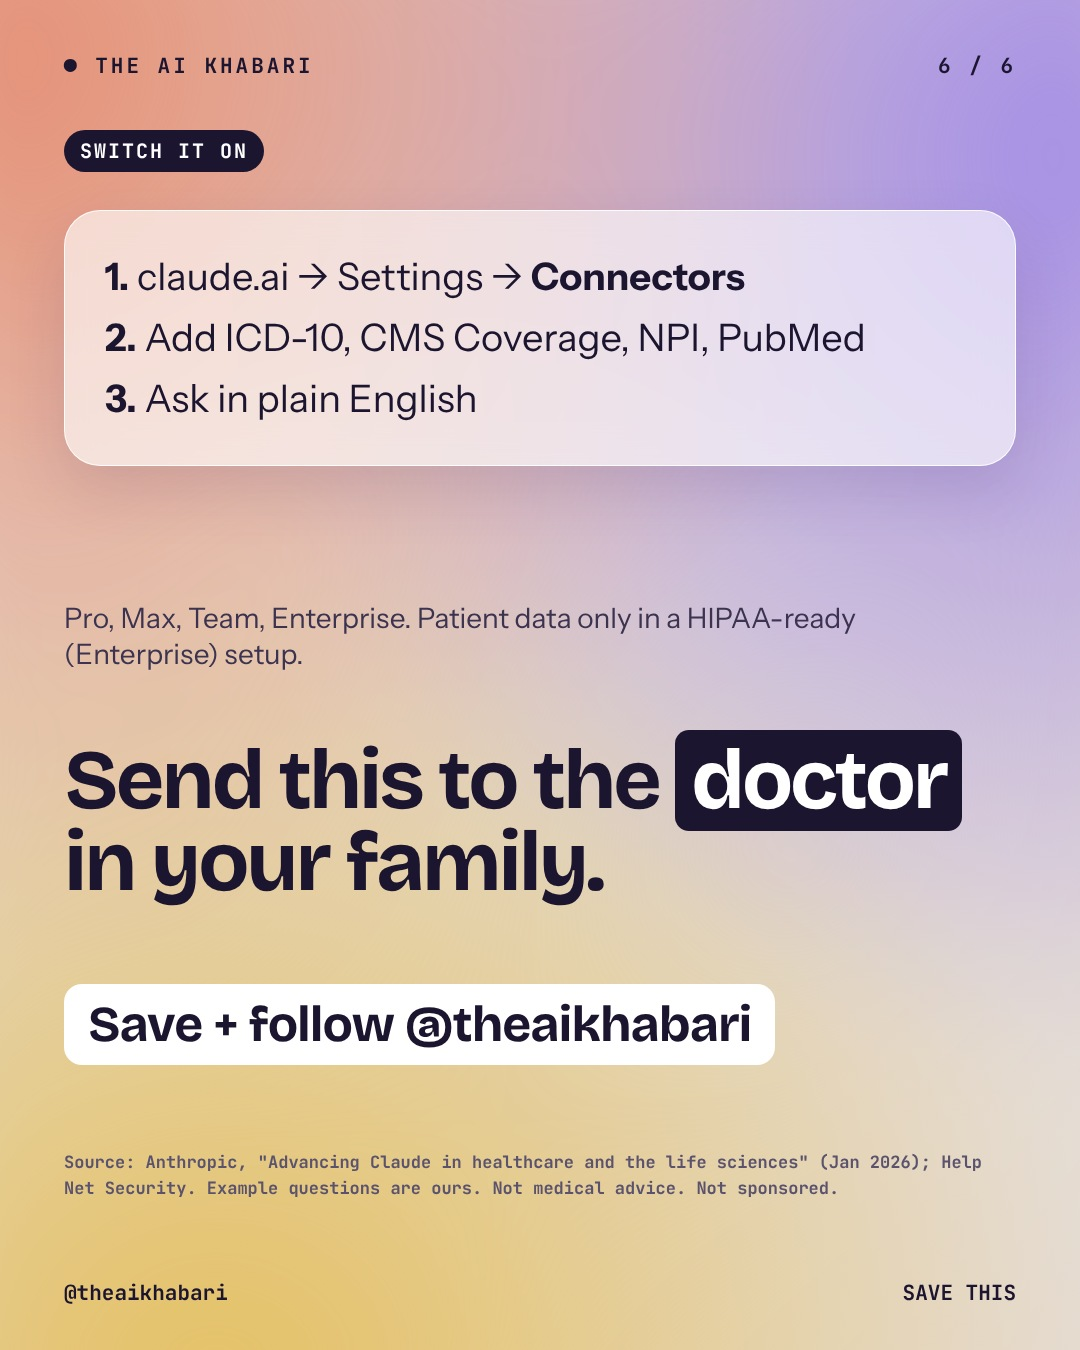
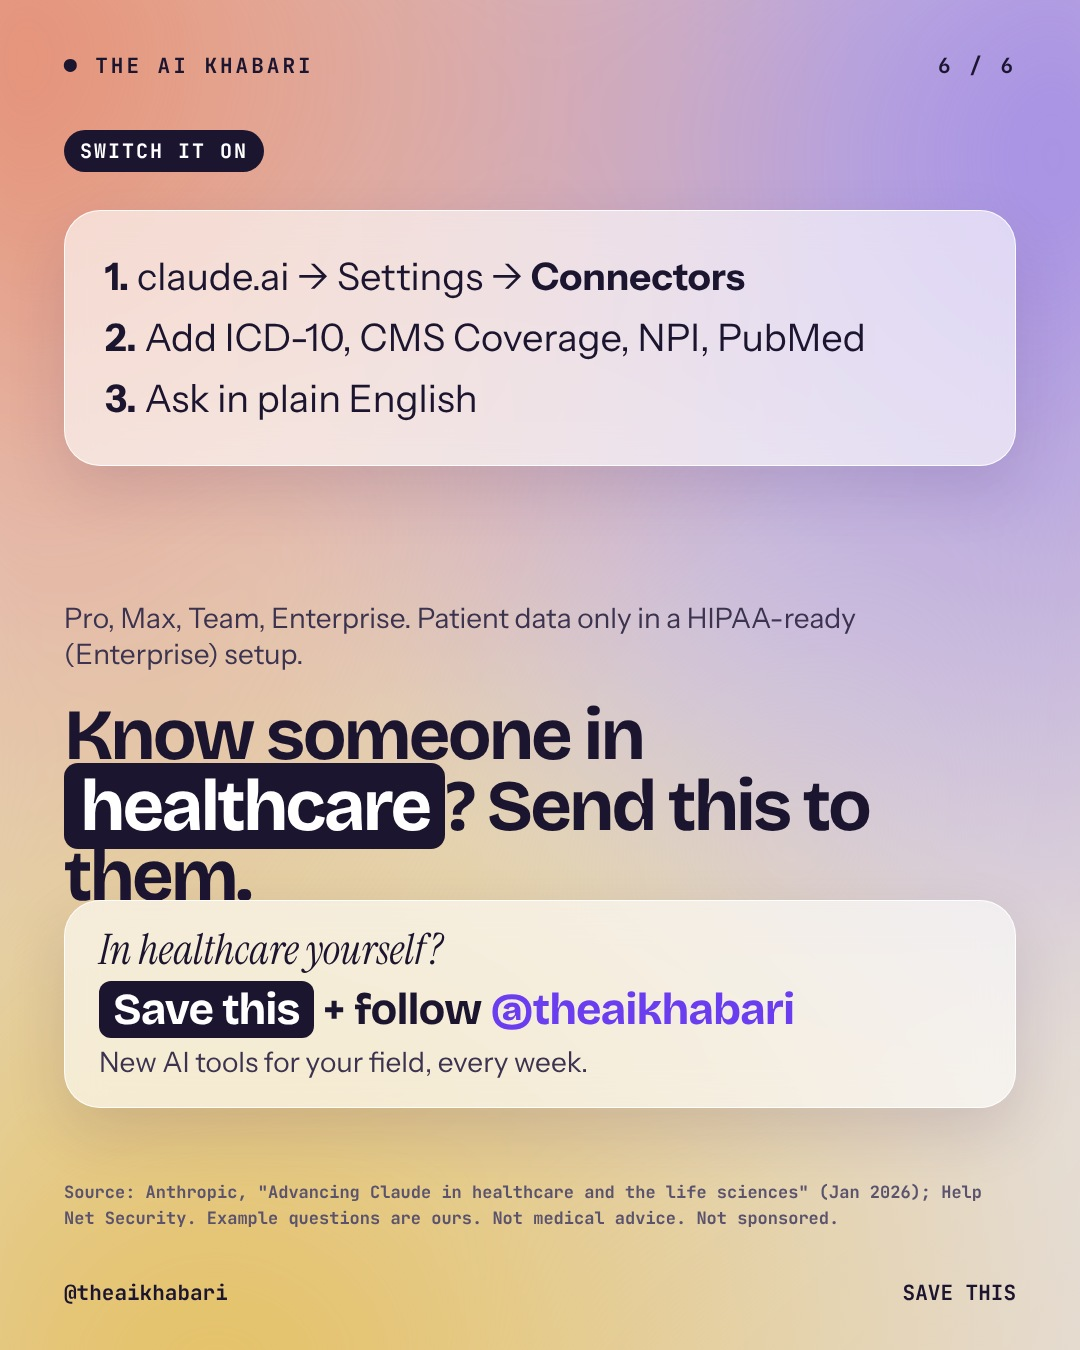
Healthcare carousel: broader CTA slide
Claude-Session: https://claude.ai/code/session_01LQ7Myr8fmpLaNjf994KEDc

Changed region(s): [[0.0611, 0.5289, 0.9472, 0.9333]]

diff --git a/tools/examples/health_carousel_build.py b/tools/examples/health_carousel_build.py
@@ -77,9 +77,12 @@ S.append(f"""<div class=a style="left:64px;top:130px"><span class=chip>SWITCH IT
 <div class="a glass" style="left:64px;right:64px;top:210px;padding:36px 40px;font-size:38px;line-height:1.6">
 <b>1.</b> claude.ai &rarr; Settings &rarr; <b>Connectors</b><br><b>2.</b> Add ICD-10, CMS Coverage, NPI, PubMed<br><b>3.</b> Ask in plain English</div>
 <div class="a t" style="left:64px;right:64px;top:600px;font-size:28px">Pro, Max, Team, Enterprise. Patient data only in a HIPAA-ready (Enterprise) setup.</div>
-<div class="a d" style="left:64px;right:64px;top:740px;font-size:84px">Send this to the <span class=hl>doctor</span> in your family.</div>
-<div class="a" style="left:64px;top:1000px"><span class=d style="font-size:50px;background:#fff;padding:10px 24px;border-radius:18px;letter-spacing:-1px">Save + follow @theaikhabari</span></div>
-<div class="a m" style="left:64px;right:64px;top:1150px;font-size:17px;line-height:1.5;color:#5B536E">Source: Anthropic, "Advancing Claude in healthcare and the life sciences" (Jan 2026); Help Net Security. Example questions are ours. Not medical advice. Not sponsored.</div>""")
+<div class="a d" style="left:64px;right:64px;top:700px;font-size:72px">Know someone in <span class=hl>healthcare</span>? Send this to them.</div>
+<div class="a glass" style="left:64px;right:64px;top:900px;padding:26px 34px">
+ <div class="s" style="font-size:42px;line-height:1.1">In healthcare yourself?</div>
+ <div style="font-family:Disp;font-size:44px;letter-spacing:-1px;margin-top:10px"><span style="background:#1C1530;color:#fff;padding:2px 14px;border-radius:12px">Save this</span> + follow <span style="color:#6B3DF0">@theaikhabari</span></div>
+ <div class=t style="font-size:28px;margin-top:8px">New AI tools for your field, every week.</div></div>
+<div class="a m" style="left:64px;right:64px;top:1180px;font-size:17px;line-height:1.5;color:#5B536E">Source: Anthropic, "Advancing Claude in healthcare and the life sciences" (Jan 2026); Help Net Security. Example questions are ours. Not medical advice. Not sponsored.</div>""")
 N=len(S)
 with sync_playwright() as p:
     b=p.chromium.launch(args=['--allow-file-access-from-files'])
